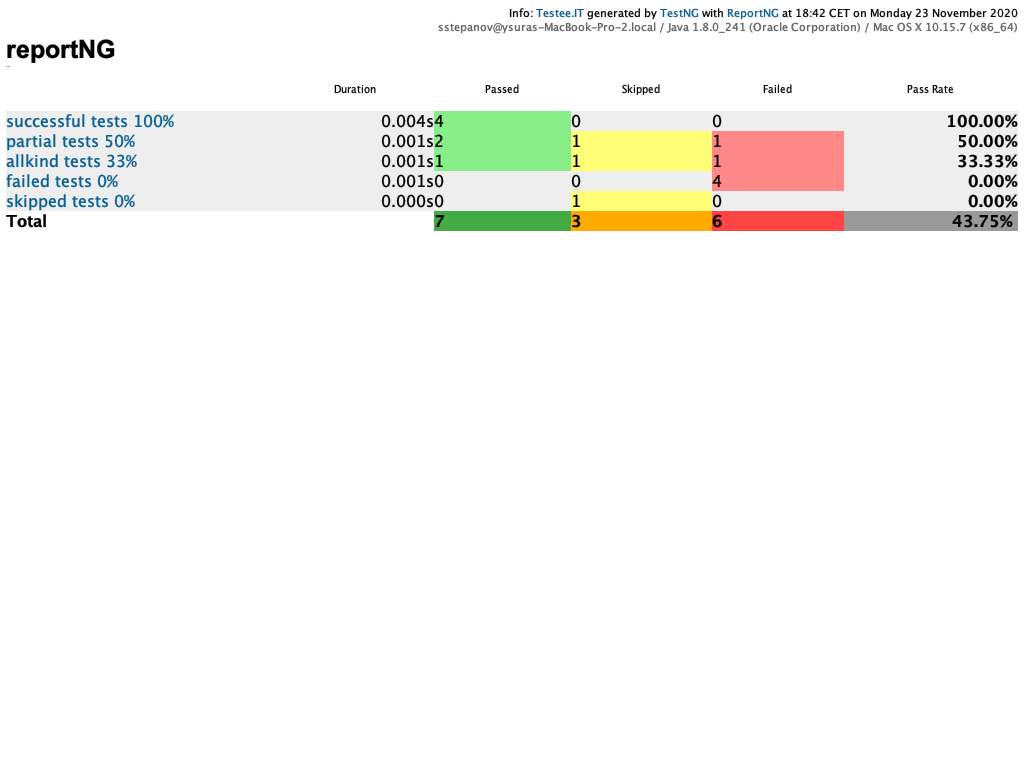
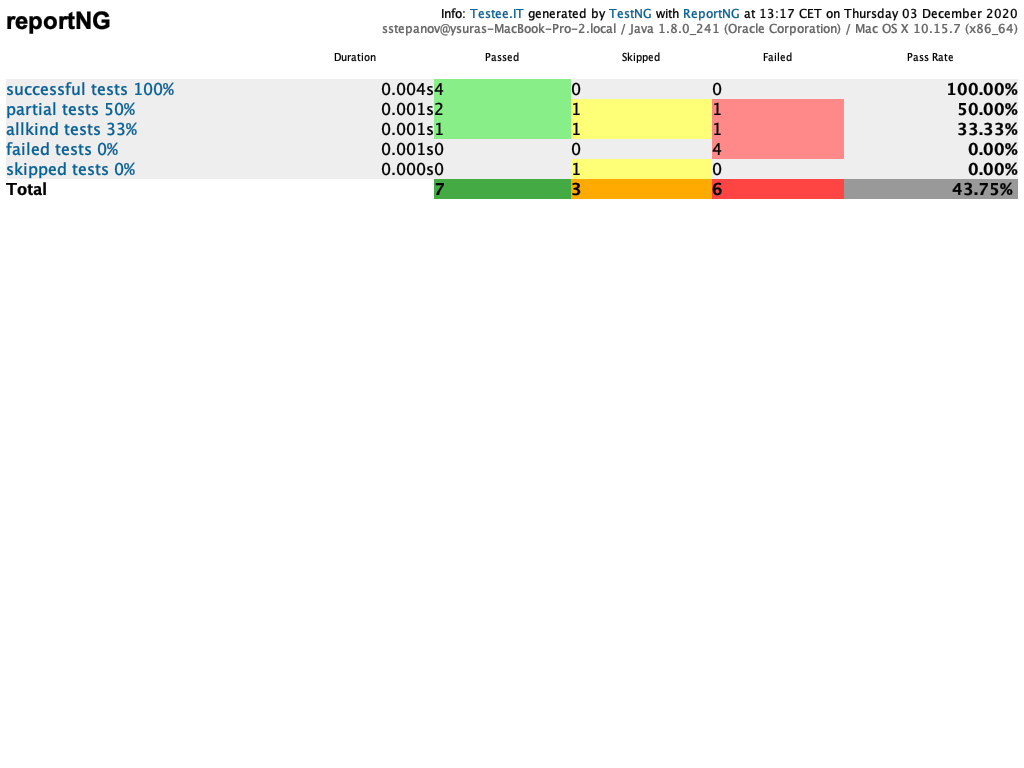
add more space for overviewTable rows

Changed region(s): [[0.3125, 0.0, 1.0, 0.3125], [0.0, 0.0, 0.1875, 0.3125]]

diff --git a/src/main/kotlin/testee/it/reportng/HTMLToBase64.kt b/src/main/kotlin/testee/it/reportng/HTMLToBase64.kt
@@ -66,6 +66,8 @@ object HTMLToBase64 {
         styleSheet.addRule("h2 {font-family: Arial, Helvetica, sans-serif; font-weight: bold; font-size: 1.8em; margin-bottom: 0.6667em;}")
         styleSheet.addRule("p {font-size: 1.8em;}")
         styleSheet.addRule("td {font-size: 1.8em;}")
+        styleSheet.addRule(".h1 {font-family: Arial, Helvetica, sans-serif; font-weight: bold; font-size: 2.0em; margin-bottom: 0.6667em;}")
+        styleSheet.addRule(".h2 {font-family: Arial, Helvetica, sans-serif; font-weight: bold; font-size: 1.8em; margin-bottom: 0.6667em;}")
         styleSheet.addRule(".header {font-size: 1.8em; font-weight: bold; text-align: left;}")
         styleSheet.addRule(".passed {background-color: #44aa44;}")
         styleSheet.addRule(".skipped {background-color: #ffaa00;}")
@@ -112,10 +114,12 @@ object HTMLToBase64 {
         styleSheet.addRule(".stackTrace {font-size: 0.9em; line-height: 1.2em; margin-left: 2em; display: none;}")
         styleSheet.addRule(".stackTrace .stackTrace {font-size: inherit;}")
         styleSheet.addRule(".description {border-bottom: 1px dotted #006699;}")
-        styleSheet.addRule("#meta {font-size: 1.1em; text-align: right; float: right;}")
+        styleSheet.addRule("#meta {font-size: 1.5em; text-align: right; float: right;}")
         styleSheet.addRule("#systemInfo {color: #666666;}")
         /* Report er log output (individual test ouput is style by "testOutput" above). */
         styleSheet.addRule("#log {font-family: Lucida Console, Monaco, Courier New, monospace; font-size: 1.8em; margin-top: 1.8em;}")
+        styleSheet.addRule(".titleTable {width: 100%; margin-top: 1.8em; line-height: 1.7em; border-spacing: 0.1em;}")
+        styleSheet.addRule(".titleTable tr {height: 1.6em;}")
         styleSheet.addRule(".overviewTable {width: 100%; margin-top: 1.8em; line-height: 1.7em; border-spacing: 0.1em;}")
         styleSheet.addRule(".overviewTable tr {height: 1.6em;}")
         styleSheet.addRule(".overviewTable td {padding: 0 1em;}")
@@ -137,22 +141,17 @@ object HTMLToBase64 {
     <link href="reportng.css" rel="stylesheet" type="text/css"/>
 </head>
 <body>
-<div id="meta">
-    Info: <a href=https://testee.it/ target="_top">Testee.IT</a> generated by <a href=https://testng.org/ target="_top">TestNG</a> with <a
-        href="https://testee.it/reportng/" target="_top">ReportNG</a>
-    at 18:42 CET on Monday 23 November 2020
-    <br/><span id="systemInfo">sstepanov@ysuras-MacBook-Pro-2.local&nbsp;/&nbsp;Java 1.8.0_241 (Oracle Corporation)&nbsp;/&nbsp;Mac OS X 10.15.7 (x86_64)</span>
-</div>
-<h1>reportNG</h1>
-<table class="overviewTable">
+<table class="titleTable">
     <tr>
-        <th colspan="6" class="header suite">
-            <div class="suiteLinks">
-                <a href="suite1_groups.html">Groups</a>
-            </div>
-            testee
-        </th>
+        <td class="h1">reportNG</td>
+        <td id="meta">
+            Info: <a href=https://testee.it/ target="_top">Testee.IT</a> generated by <a href=https://testng.org/ target="_top">TestNG</a> with <a href="https://testee.it/reportng/" target="_top">ReportNG</a>
+            at 13:17 CET on Thursday 03 December 2020
+            <br/><span id="systemInfo">sstepanov@ysuras-MacBook-Pro-2.local&nbsp;/&nbsp;Java 1.8.0_241 (Oracle Corporation)&nbsp;/&nbsp;Mac OS X 10.15.7 (x86_64)</span>
+        </td>
     </tr>
+</table>
+<table class="overviewTable">
     <tr class="columnHeadings">
         <td>&nbsp;</td>
         <th>Duration</th>

diff --git a/src/main/resources/testee/it/reportng/templates/html/reportng.css b/src/main/resources/testee/it/reportng/templates/html/reportng.css
@@ -7,6 +7,9 @@ h2                       {font-family: Arial, Helvetica, sans-serif; font-weight
 p                        {font-size: 1.3em;}
 td                       {font-size: 1.3em;}
 
+.h1                      {font-family: Arial, Helvetica, sans-serif; font-weight: bold; font-size: 2.7em; margin-bottom: 0.6667em;}
+.h2                      {font-family: Arial, Helvetica, sans-serif; font-weight: bold; font-size: 1.8em; margin-bottom: 0;}
+
 .header                  {font-size: 1.4em; font-weight: bold; text-align: left;}
 .passed                  {background-color: #44aa44;}
 .skipped                 {background-color: #ffaa00;}
@@ -67,6 +70,9 @@ div.test                 {margin-top: 0.1em; clear: right; font-size: 1.3em;}
 
 /* Reporter log output (individual test ouput is style by "testOutput" above). */
 #log                     {font-family: Lucida Console, Monaco, Courier New, monospace; font-size: 1.3em; margin-top: 1.8em;}
+
+.titleTable              {width: 100%; margin-top: 1.8em; line-height: 1.7em; border-spacing: 0.1em;}
+.titleTable tr           {height: 1.6em;}
 
 .overviewTable           {width: 100%; margin-top: 1.8em; line-height: 1.7em; border-spacing: 0.1em;}
 .overviewTable tr        {height: 1.6em;}

diff --git a/src/main/kotlin/testee/it/reportng/AbstractReporter.kt b/src/main/kotlin/testee/it/reportng/AbstractReporter.kt
@@ -113,9 +113,7 @@ abstract class AbstractReporter protected constructor(private val classpathPrefi
                            sourceFile: File?,
                            targetFileName: String?) {
         val fileStream: InputStream = FileInputStream(sourceFile)
-        fileStream.use { fileStream ->
-            copyStream(outputDirectory, fileStream, targetFileName)
-        }
+        fileStream.use { copyStream(outputDirectory, it, targetFileName) }
     }
 
     /**
